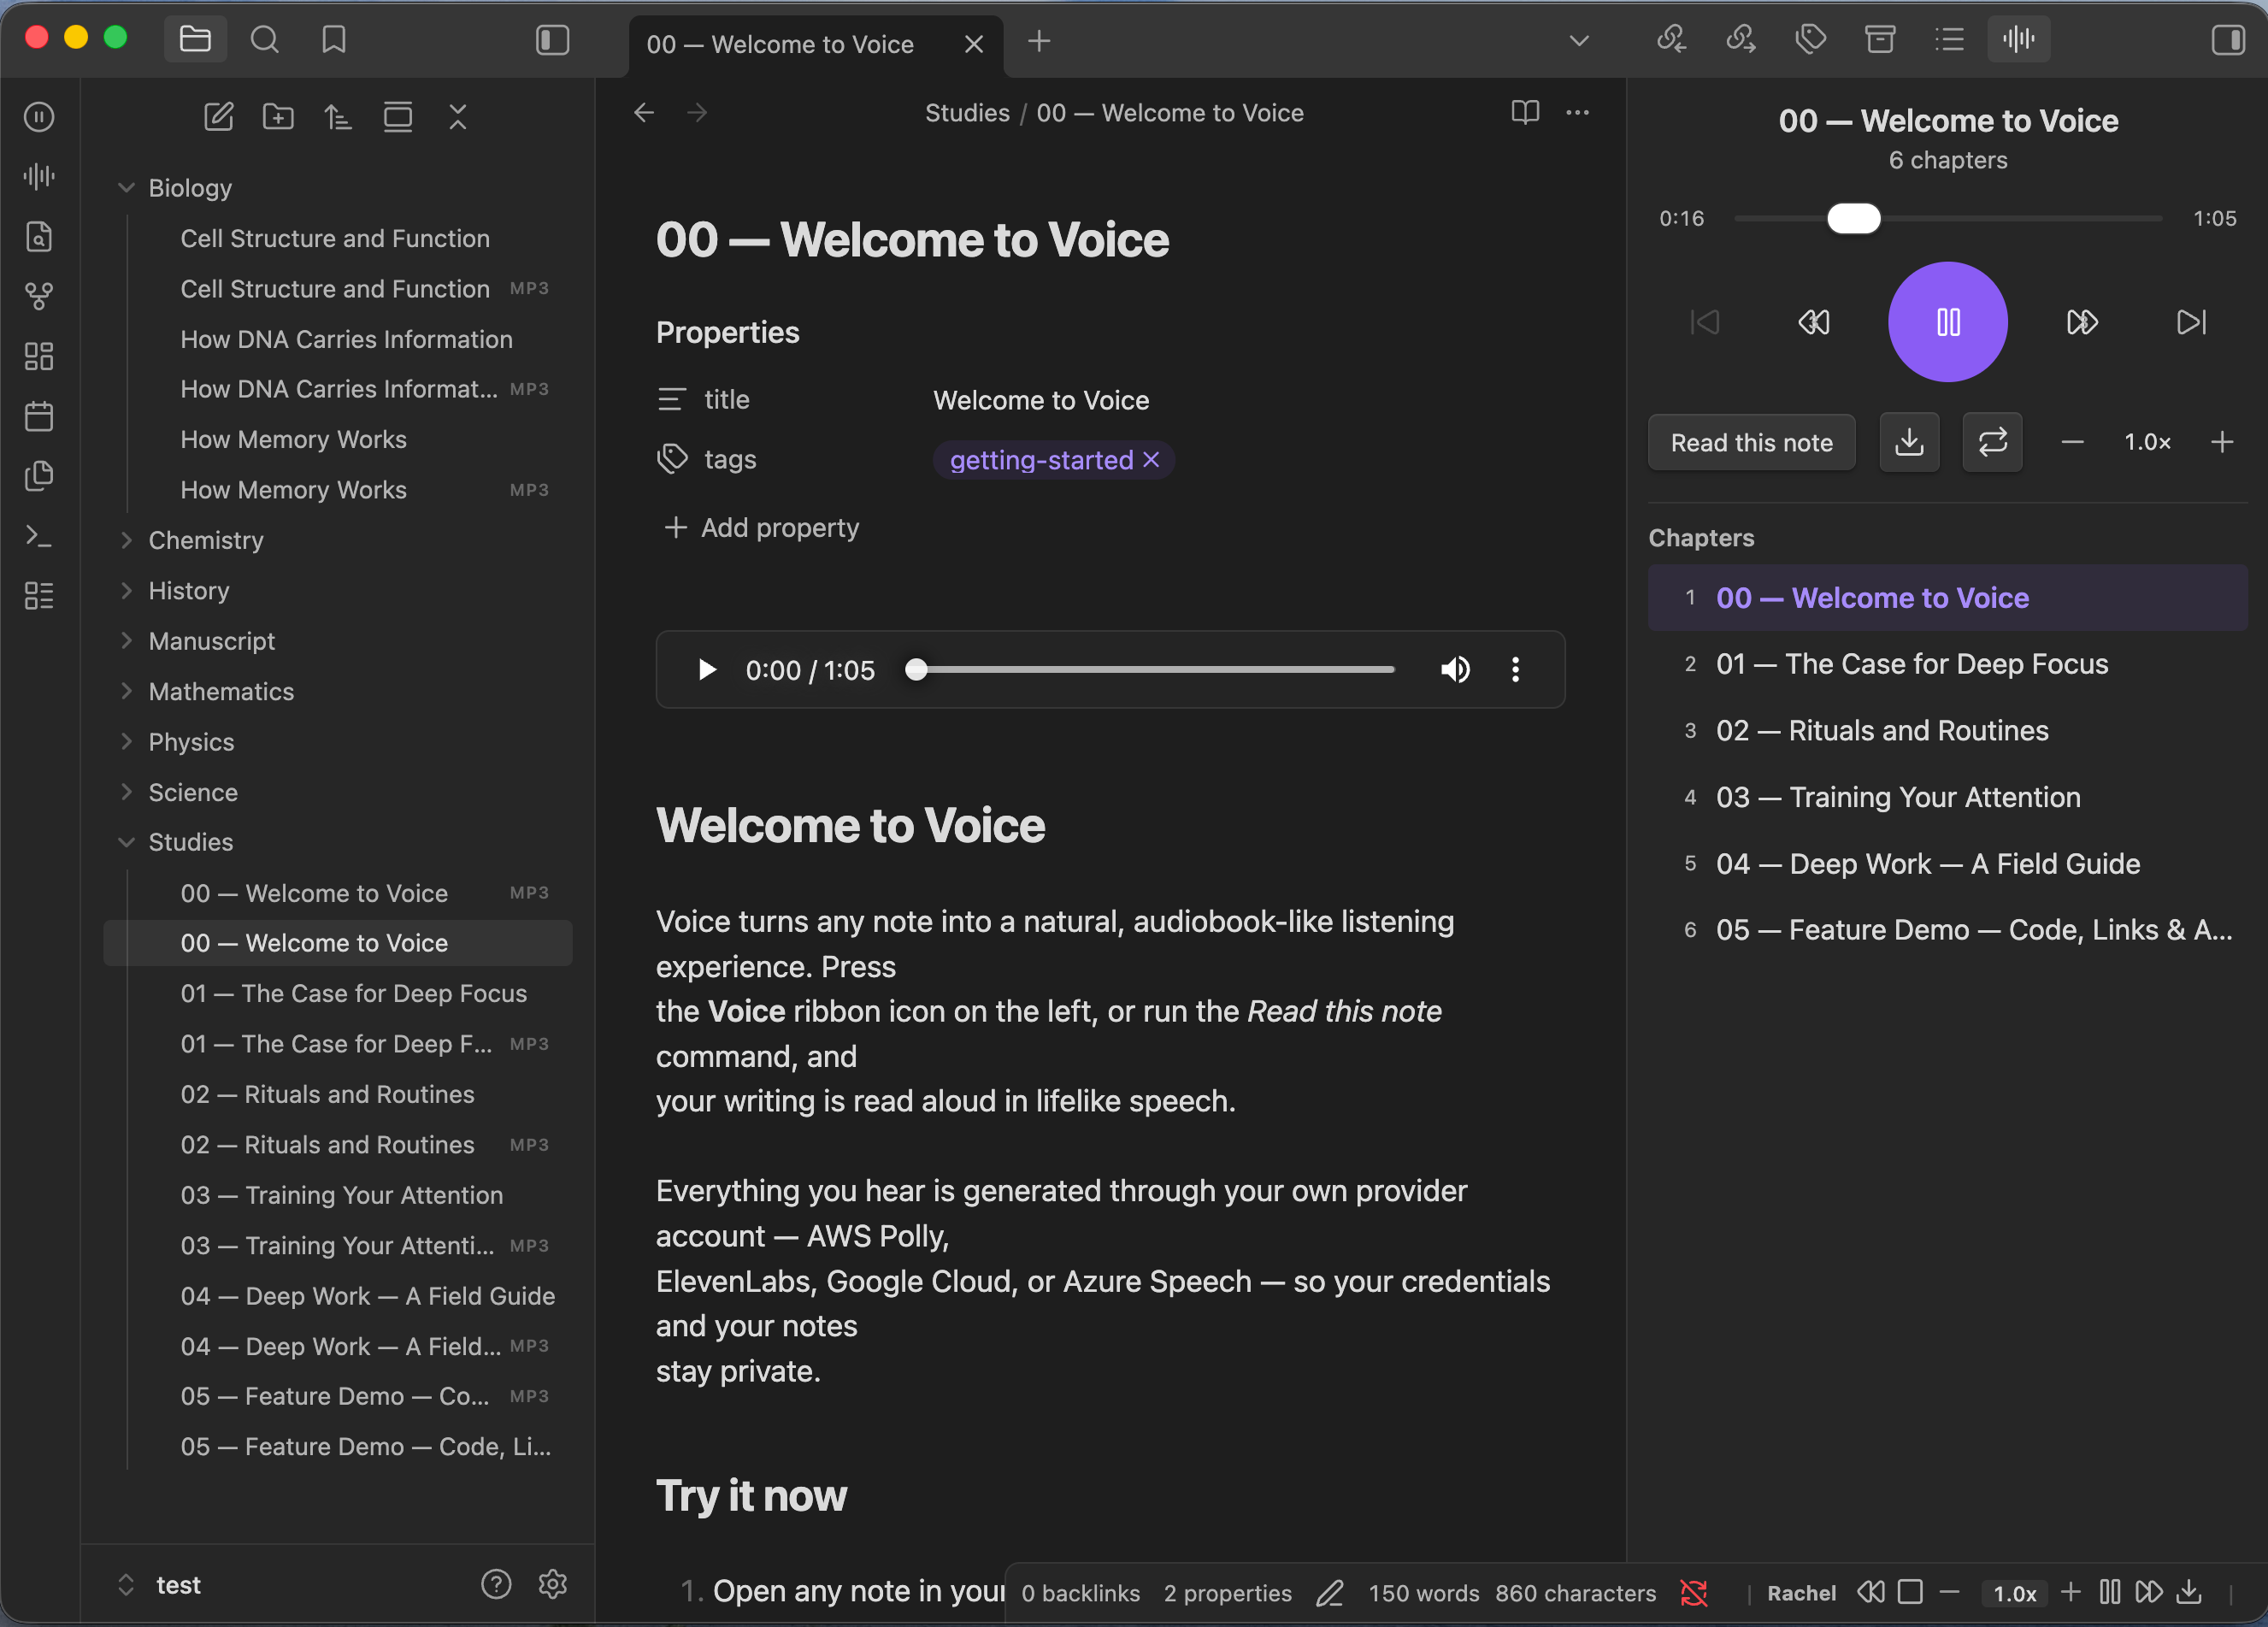
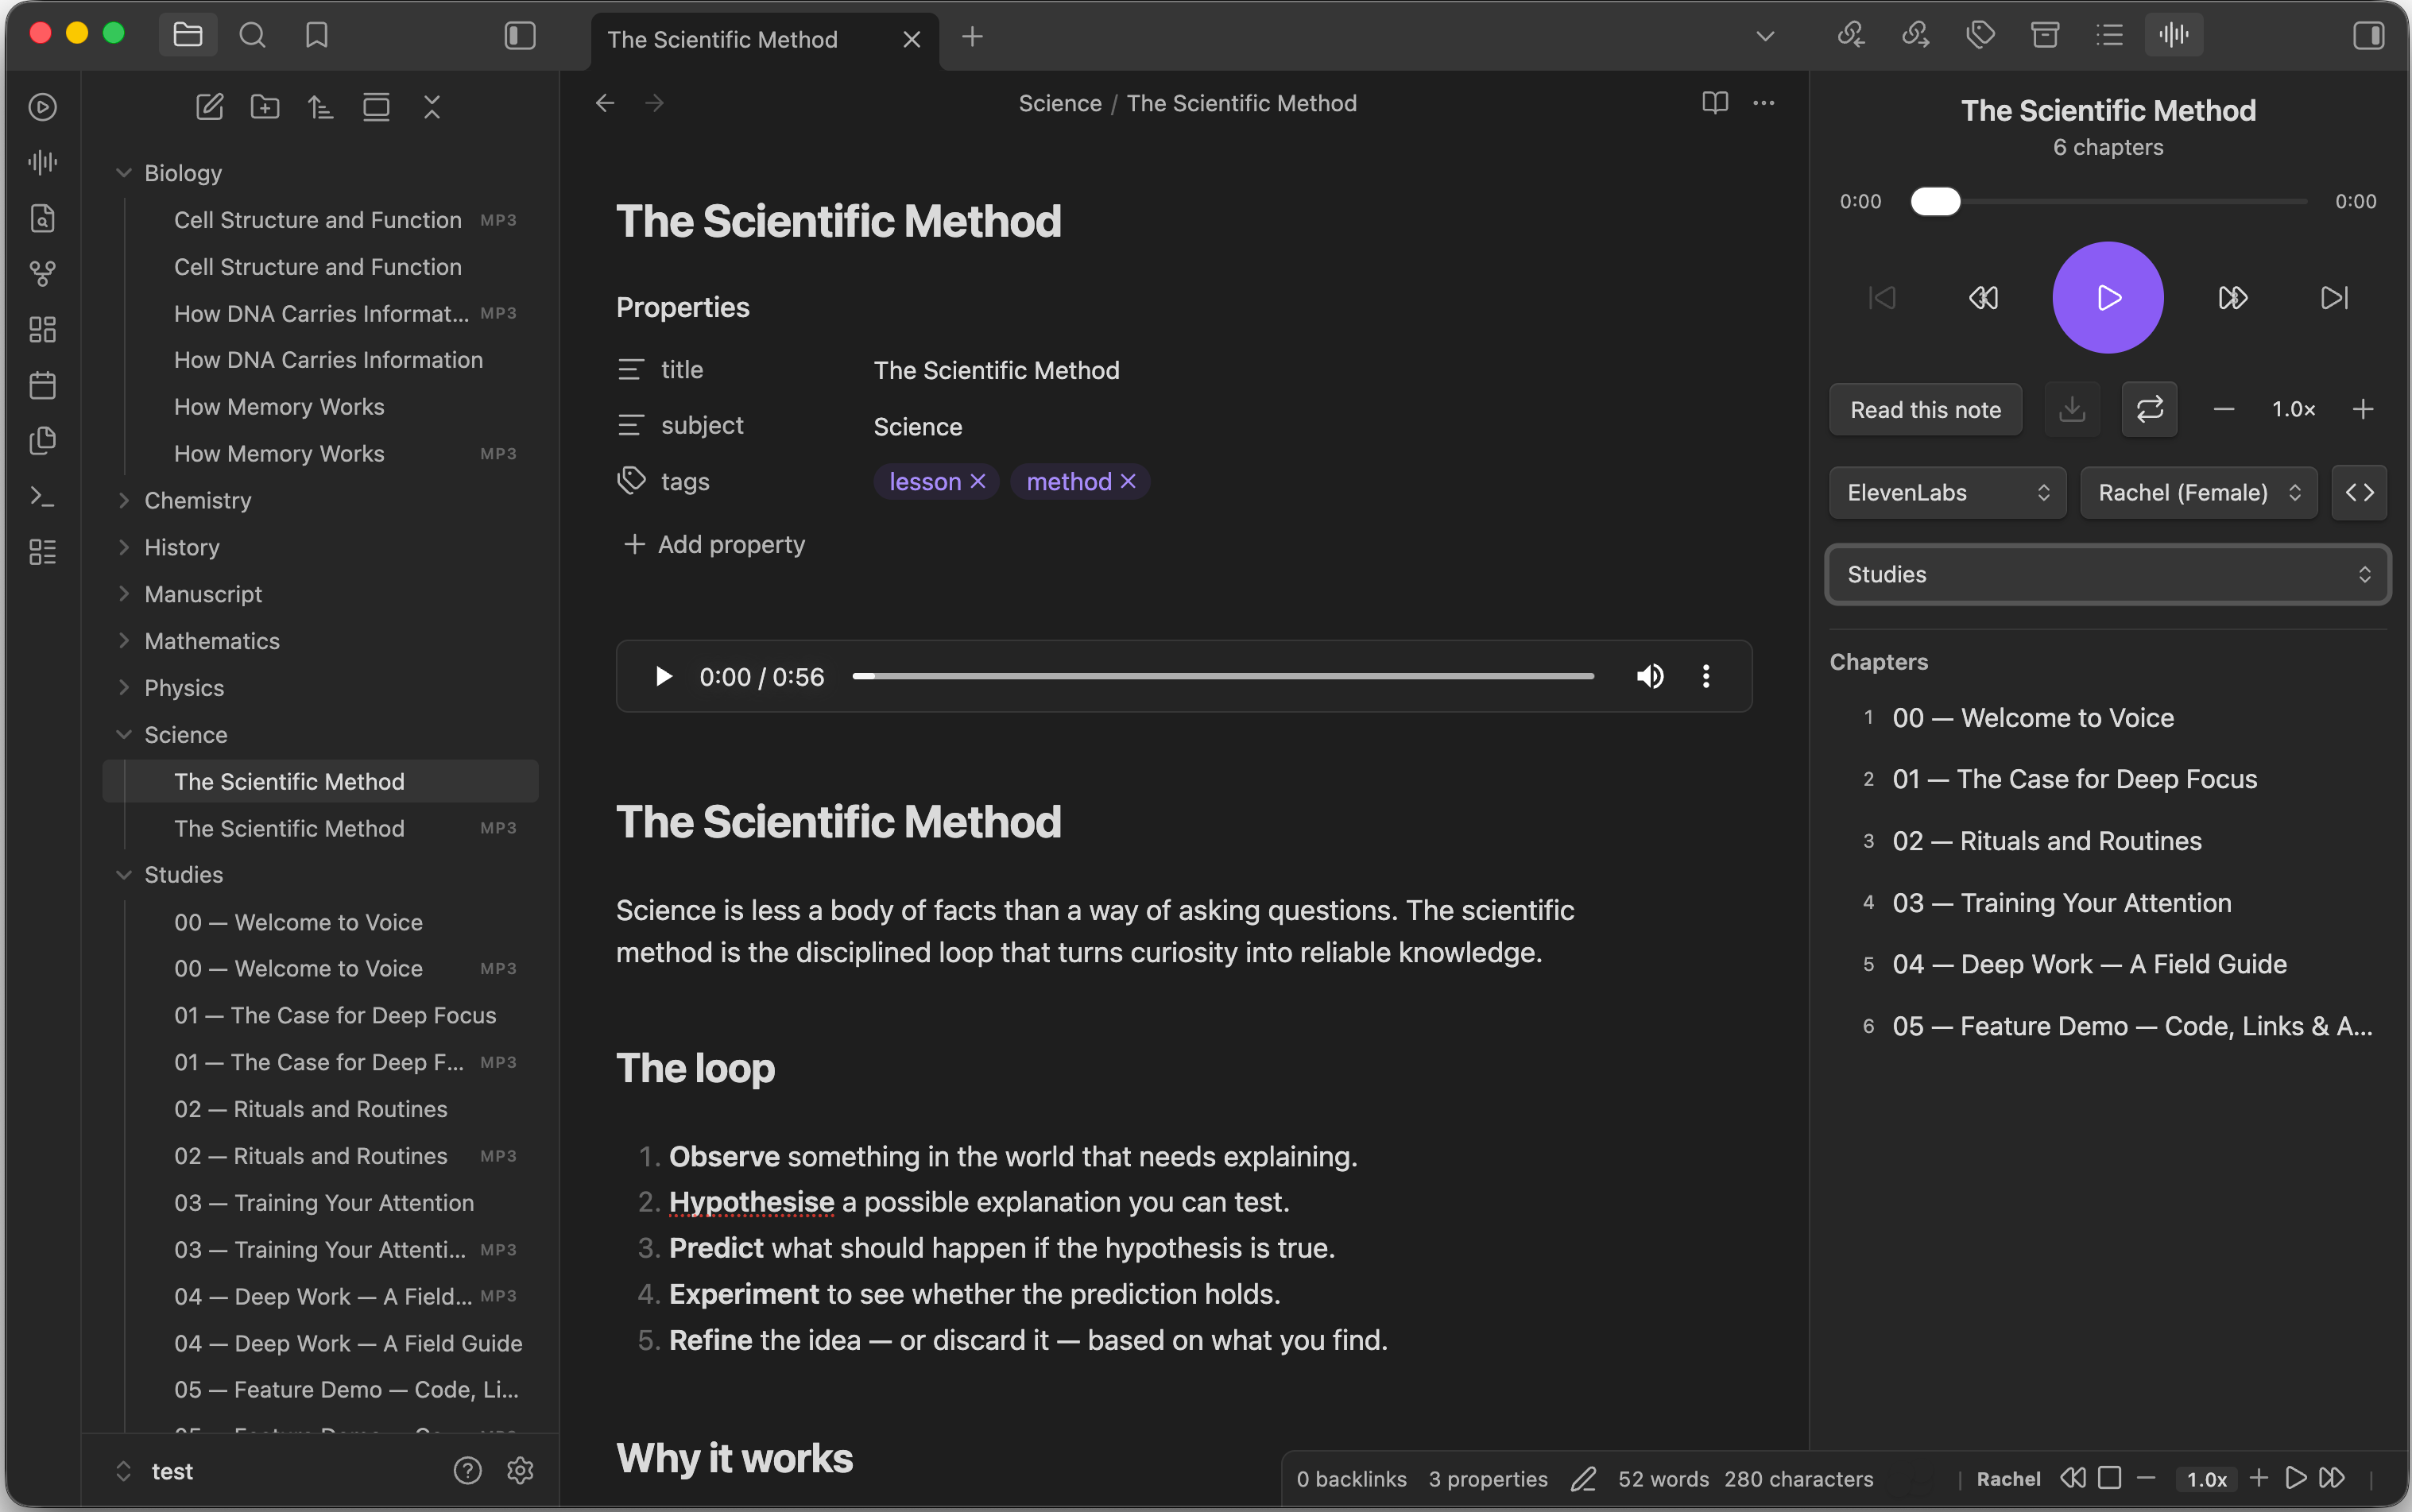
docs: mention OpenAI in the hero image alt text (#52)
* docs: mention OpenAI in the hero image alt text

The OpenAI provider was added in #51 and documented throughout the
README, but the hero image alt text still listed only four engines.

Claude-Session: https://claude.ai/code/session_01GVD1tWSWBTUwLcaPNTvdg8

* docs: Vocie player update documentation illustration images

---------

Pull request: docs: mention OpenAI in the hero image alt text
## Summary

Small README follow-up to the OpenAI provider (#51): the hero image alt text still listed only four engines. Updated it to include **OpenAI** so it matches the rest of the README.

The rest of the README was already updated for OpenAI in #51 (intro, highlights, settings table, provider comparison table, and the "Connecting a Provider" section).

## Note

📸 New screenshots showing the latest features will be added to this same branch separately.

🤖 Generated with [Claude Code](https://claude.com/claude-code)

---
_Generated by [Claude Code](https://claude.ai/code/session_01GVD1tWSWBTUwLcaPNTvdg8)_

diff --git a/README.md b/README.md
@@ -1,6 +1,6 @@
 # Obsidian Voice Plugin 🔊
 
-![Obsidian Voice — listen to your notes in natural, lifelike speech with AWS Polly, ElevenLabs, Google Cloud, or Azure Speech](./assets/hero.png)
+![Obsidian Voice — listen to your notes in natural, lifelike speech with AWS Polly, ElevenLabs, Google Cloud, Azure Speech, or OpenAI](./assets/hero.png)
 
 Turn every note into a mobile-friendly, audiobook-like experience. The Obsidian Voice Plugin reads your notes aloud in natural, lifelike speech — powered by your choice of **AWS Polly**, **ElevenLabs**, **Google Cloud**, **Azure Speech**, or **OpenAI**. Listen with a dedicated player, jump between notes like chapters, change the speed on the fly, and save audio offline — with your credentials kept private in your own account.
 